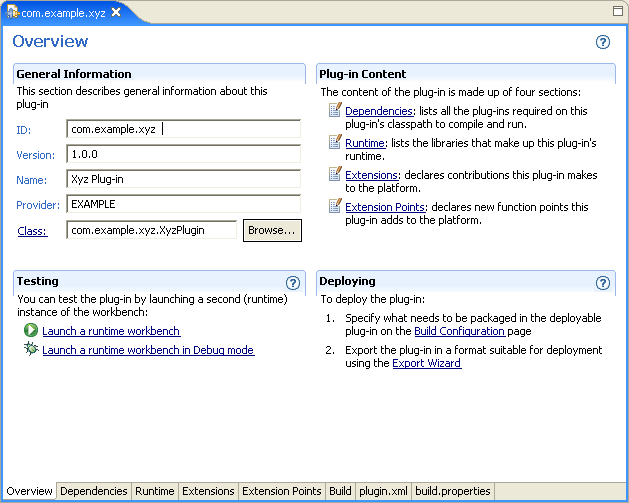
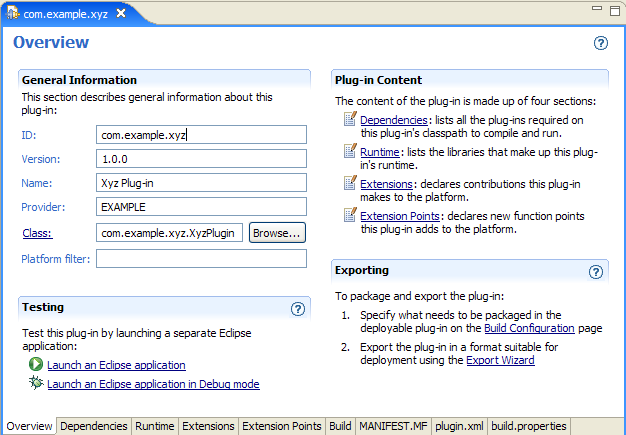
*** empty log message ***

Changed region(s): [[0.0, 0.0, 1.0, 1.0], [0.0304, 0.7471, 0.4249, 0.8966], [0.4553, 0.6874, 0.4856, 0.7471]]

diff --git a/bundles/org.eclipse.pde.doc.user/guide/pde_manifest_overview.htm b/bundles/org.eclipse.pde.doc.user/guide/pde_manifest_overview.htm
@@ -16,12 +16,12 @@ follow the hyperlinks to navigate a particular page or execute a particular
 command.</p>
 <p align="center">
 <img src="images/plugin-overview.png" alt="Overview editor page" border="0" ></p>
-<p align="left">The Plug-in Content section explains the structure and content 
-of each section of the plug-in manifest.</p>
-<p align="left">The Testing section provides shortcuts to quickly launch a 
-runtime workbench to test and debug the plug-in.</p>
-<p align="left">The Deploying section lists the steps required to successfully 
-build and package the plug-in.</p>
+<p align="left">The <strong>Plug-in Content</strong> section explains the structure 
+  and content of each section of the plug-in manifest.</p>
+<p align="left">The <strong>Testing</strong> section provides shortcuts to quickly 
+  launch a runtime workbench to test and debug the plug-in.</p>
+<p align="left">The <strong>Exporting</strong> section lists the steps required 
+  to successfully build and package the plug-in.</p>
 
 
 </body>
